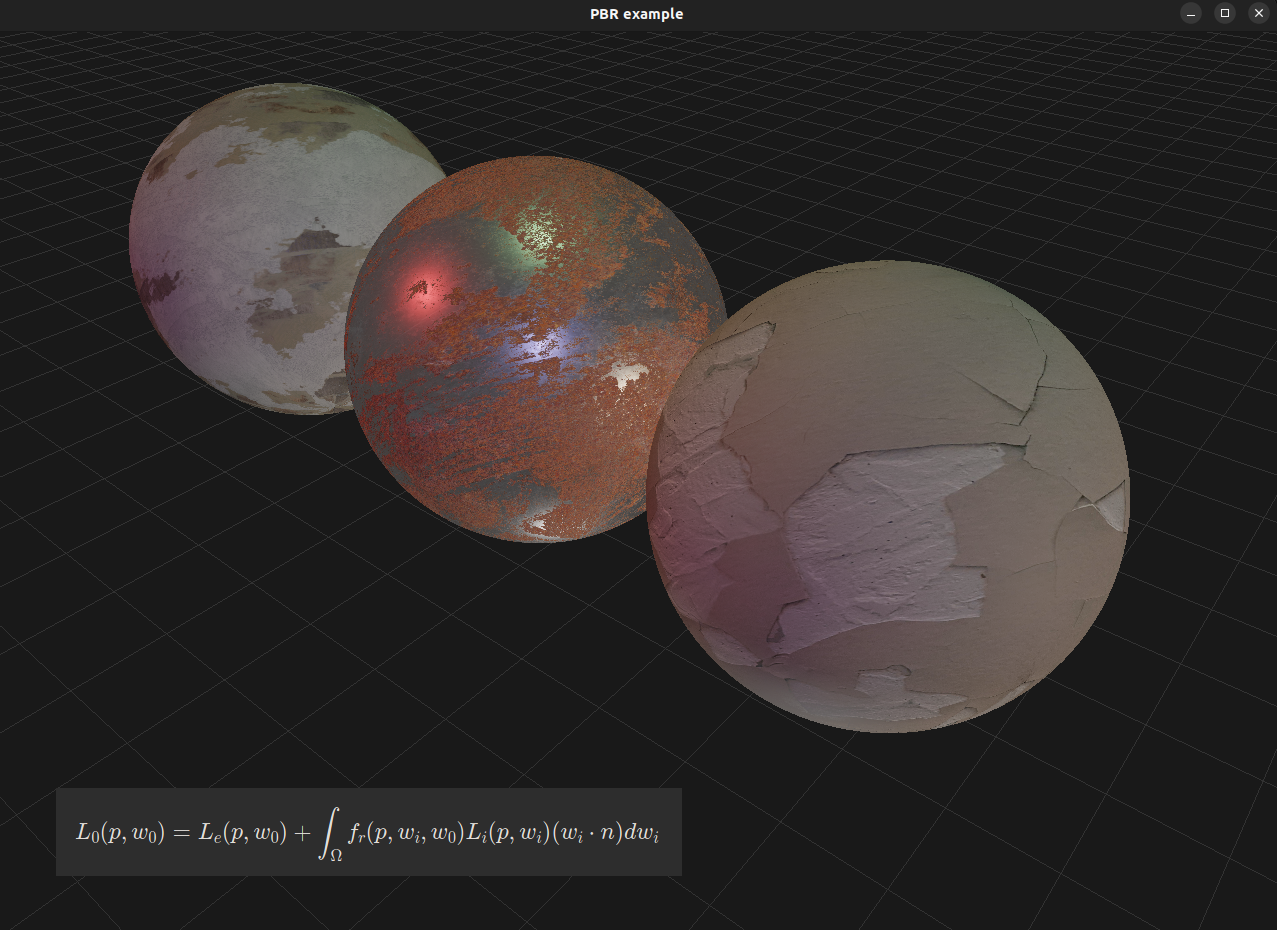
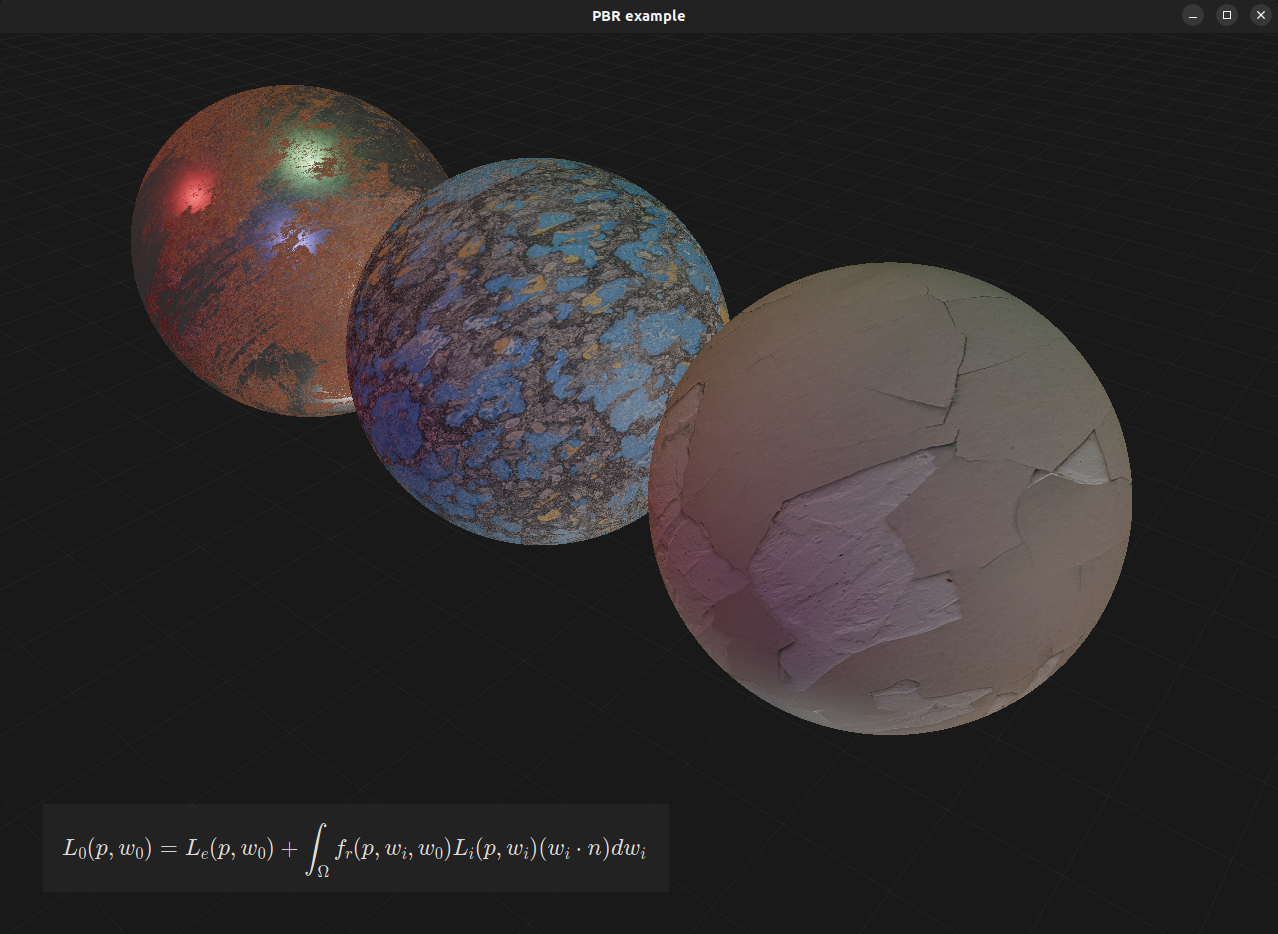
PBR example

diff --git a/test/testPBR/src/main.cpp b/test/testPBR/src/main.cpp
@@ -112,7 +112,7 @@ int main() {
 
     // Lighting
     DirectionalLight light(glm::vec3(15));
-    light.setColor(glm::vec3(0.35, 0.35, 1));
+    light.setColor(glm::vec3(0.25, 0.25, 1));
     renderer->addLight(light);
 
     DirectionalLight light2(glm::vec3(-15, 15, 15));
@@ -146,18 +146,18 @@ int main() {
     // Polytope
     Polytope::Ptr sphere = createSphere();
     sphere->setFaceCulling(Polytope::FaceCulling::FRONT);
-    sphere->translate(glm::vec3(-1.0, 1.0, 0.0));
+    sphere->translate(glm::vec3(-3.0, 1.0, 0.0));
 
     Polytope::Ptr sphere2 = createSphere();
     sphere2->setFaceCulling(Polytope::FaceCulling::FRONT);
-    sphere2->translate(glm::vec3(-3.0, 1.0, 0.0));
-
-    PBRMaterial::Ptr material2 = PBRMaterial::New(glm::vec3(0, 0, 0), 0, 0, 1.0); // Add ambient occlusion
-    sphere2->setMaterial(material2);
+    sphere2->translate(glm::vec3(-1.0, 1.0, 0.0));
 
     Polytope::Ptr sphere3 = createSphere();
     sphere3->setFaceCulling(Polytope::FaceCulling::FRONT);
     sphere3->translate(glm::vec3(1.0, 1.0, 0.0));
+
+    PBRMaterial::Ptr aoMaterial = PBRMaterial::New(glm::vec3(0, 0, 0), 0, 0, 2.5);
+    sphere3->setMaterial(aoMaterial);
 
     // PBR materials
     Texture::Ptr textureAlbedo = Texture::New("/home/morcillosanz/Desktop/model/rustediron1-alt2-Unreal-Engine/rustediron2_basecolor.png", Texture::Type::TextureAlbedo);
@@ -165,10 +165,11 @@ int main() {
     Texture::Ptr textureNormal = Texture::New("/home/morcillosanz/Desktop/model/rustediron1-alt2-Unreal-Engine/Srustediron2_normal.png", Texture::Type::TextureNormal);
     Texture::Ptr textureRoughness = Texture::New("/home/morcillosanz/Desktop/model/rustediron1-alt2-Unreal-Engine/rustediron2_roughness.png", Texture::Type::TextureRoughness);
 
-    Texture::Ptr textureAlbedo2 = Texture::New("/home/morcillosanz/Desktop/model/PaintedPlaster016_2K-JPG/PaintedPlaster016_2K_Color.jpg", Texture::Type::TextureAlbedo);
-    Texture::Ptr textureNormal2 = Texture::New("/home/morcillosanz/Desktop/model/PaintedPlaster016_2K-JPG/PaintedPlaster016_2K_NormalDx.jpg", Texture::Type::TextureNormal);
-    Texture::Ptr textureRoughness2 = Texture::New("/home/morcillosanz/Desktop/model/PaintedPlaster016_2K-JPG/PaintedPlaster016_2K_Roughness.jpg", Texture::Type::TextureRoughness);
-    Texture::Ptr textureAmbientOcclusion2 = Texture::New("/home/morcillosanz/Desktop/model/PaintedPlaster016_2K-JPG/PaintedPlaster016_2K_AmbientOcclusion.jpg", Texture::Type::TextureAmbientOcclusion);
+    Texture::Ptr textureAlbedo2 = Texture::New("/home/morcillosanz/Desktop/model/painted-worn-asphalt-ue/painted-worn-asphalt_albedo.png", Texture::Type::TextureAlbedo);
+    Texture::Ptr textureNormal2 = Texture::New("/home/morcillosanz/Desktop/model/painted-worn-asphalt-ue/painted-worn-asphalt_normal-dx.png", Texture::Type::TextureNormal);
+    Texture::Ptr textureMetallic2 = Texture::New("/home/morcillosanz/Desktop/model/painted-worn-asphalt-ue/painted-worn-asphalt_metallic.png", Texture::Type::TextureMetallic);
+    Texture::Ptr textureRoughness2 = Texture::New("/home/morcillosanz/Desktop/model/painted-worn-asphalt-ue/painted-worn-asphalt_roughness.png", Texture::Type::TextureRoughness);
+    Texture::Ptr textureAmbientOcclusion2 = Texture::New("/home/morcillosanz/Desktop/model/painted-worn-asphalt-ue/painted-worn-asphalt_ao.png", Texture::Type::TextureAmbientOcclusion);
 
     Texture::Ptr textureAlbedo3 = Texture::New("/home/morcillosanz/Desktop/model/chipping-painted-wall-ue/chipping-painted-wall_albedo.png", Texture::Type::TextureAlbedo);
     Texture::Ptr textureMetallic3 = Texture::New("/home/morcillosanz/Desktop/model/chipping-painted-wall-ue/chipping-painted-wall_metallic.png", Texture::Type::TextureMetallic);
